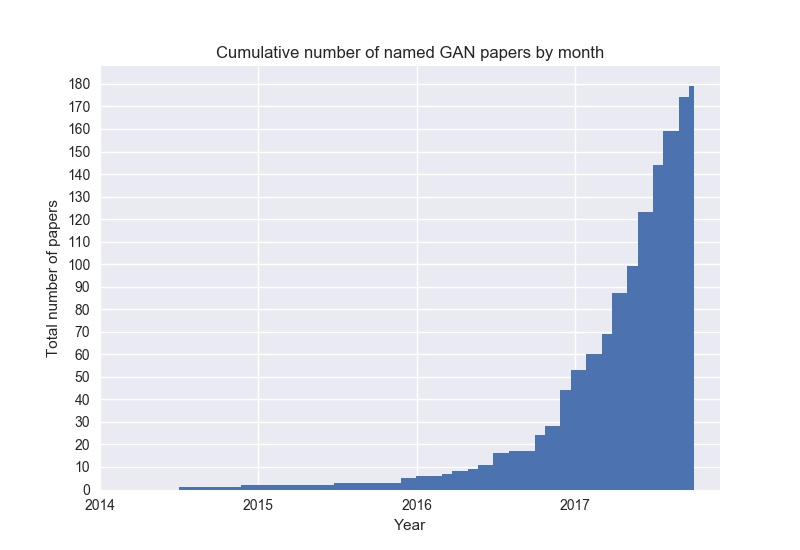
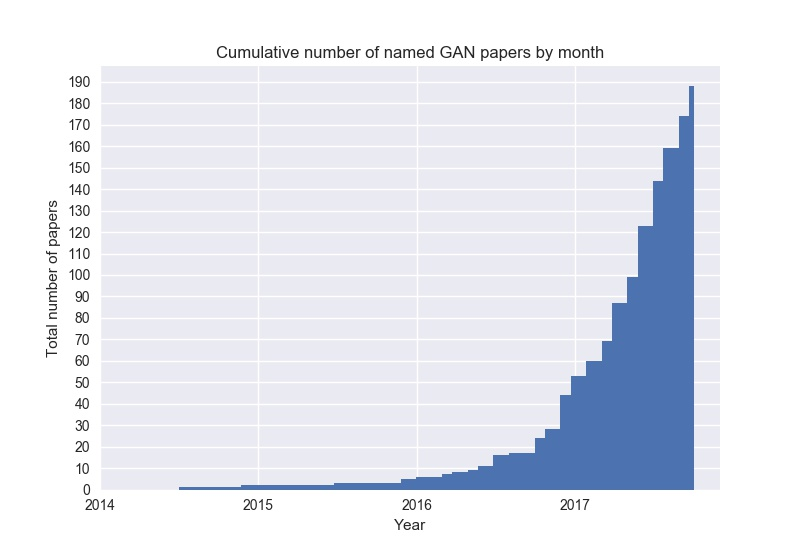
add D2GAN, ExprGAN, GAMN, LeakGAN, MD-GAN, MuseGAN, OptionGAN, Δ-GAN, Spl. GAN
New GANs:
* Dual Discriminator GAN (D2GAN)
* ExprGAN
* Generative Adversarial Mapping Networks (GAMN)
* LeakGAN
* Multi-stage Dynamic GAN (MD-GAN)
* MuseGAN
* OptionGAN
* Splitting GAN
* Triangle GAN (Δ-GAN)

diff --git a/README.md b/README.md
@@ -59,6 +59,7 @@ Check out [Deep Hunt](https://deephunt.in) - my weekly AI newsletter for this re
 * CS-GAN - [Improving Neural Machine Translation with Conditional Sequence Generative Adversarial Nets](https://arxiv.org/abs/1703.04887) 
 * CVAE-GAN - [CVAE-GAN: Fine-Grained Image Generation through Asymmetric Training](https://arxiv.org/abs/1703.10155) 
 * CycleGAN - [Unpaired Image-to-Image Translation using Cycle-Consistent Adversarial Networks](https://arxiv.org/abs/1703.10593) ([github](https://github.com/junyanz/CycleGAN))
+* D2GAN - [Dual Discriminator Generative Adversarial Nets](http://arxiv.org/abs/1709.03831) 
 * DAN - [Distributional Adversarial Networks](https://arxiv.org/abs/1706.09549) 
 * DCGAN - [Unsupervised Representation Learning with Deep Convolutional Generative Adversarial Networks](https://arxiv.org/abs/1511.06434) ([github](https://github.com/Newmu/dcgan_code))
 * DeliGAN - [DeLiGAN : Generative Adversarial Networks for Diverse and Limited Data](https://arxiv.org/abs/1706.02071) ([github](https://github.com/val-iisc/deligan))
@@ -74,11 +75,13 @@ Check out [Deep Hunt](https://deephunt.in) - my weekly AI newsletter for this re
 * EBGAN - [Energy-based Generative Adversarial Network](https://arxiv.org/abs/1609.03126v4) 
 * ED//GAN - [Stabilizing Training of Generative Adversarial Networks through Regularization](https://arxiv.org/abs/1705.09367) 
 * EGAN - [Enhanced Experience Replay Generation for Efficient Reinforcement Learning](https://arxiv.org/abs/1705.08245) 
+* ExprGAN - [ExprGAN: Facial Expression Editing with Controllable Expression Intensity](https://arxiv.org/abs/1709.03842) 
 * f-GAN - [f-GAN: Training Generative Neural Samplers using Variational Divergence Minimization](https://arxiv.org/abs/1606.00709) 
 * FF-GAN - [Towards Large-Pose Face Frontalization in the Wild](https://arxiv.org/abs/1704.06244) 
 * Fila-GAN - [Synthesizing Filamentary Structured Images with GANs](https://arxiv.org/abs/1706.02185) 
 * Fisher GAN - [Fisher GAN](https://arxiv.org/abs/1705.09675) 
 * Flow-GAN - [Flow-GAN: Bridging implicit and prescribed learning in generative models](https://arxiv.org/abs/1705.08868) 
+* GAMN - [Generative Adversarial Mapping Networks](https://arxiv.org/abs/1709.09820) 
 * GAN - [Generative Adversarial Networks](https://arxiv.org/abs/1406.2661) ([github](https://github.com/goodfeli/adversarial))
 * GAN-CLS - [Generative Adversarial Text to Image Synthesis](https://arxiv.org/abs/1605.05396) ([github](https://github.com/reedscot/icml2016))
 * GAN-sep - [GANs for Biological Image Synthesis](https://arxiv.org/abs/1708.04692) ([github](https://github.com/aosokin/biogans))
@@ -105,6 +108,7 @@ Check out [Deep Hunt](https://deephunt.in) - my weekly AI newsletter for this re
 * LAPGAN - [Deep Generative Image Models using a Laplacian Pyramid of Adversarial Networks](https://arxiv.org/abs/1506.05751) ([github](https://github.com/facebook/eyescream))
 * LD-GAN - [Linear Discriminant Generative Adversarial Networks](https://arxiv.org/abs/1707.07831) 
 * LDAN - [Label Denoising Adversarial Network (LDAN) for Inverse Lighting of Face Images](https://arxiv.org/abs/1709.01993) 
+* LeakGAN - [Long Text Generation via Adversarial Training with Leaked Information](https://arxiv.org/abs/1709.08624) 
 * LeGAN - [Likelihood Estimation for Generative Adversarial Networks](https://arxiv.org/abs/1707.07530) 
 * LR-GAN - [LR-GAN: Layered Recursive Generative Adversarial Networks for Image Generation](https://arxiv.org/abs/1703.01560v1) 
 * LS-GAN - [Loss-Sensitive Generative Adversarial Networks on Lipschitz Densities](https://arxiv.org/abs/1701.06264) 
@@ -115,6 +119,7 @@ Check out [Deep Hunt](https://deephunt.in) - my weekly AI newsletter for this re
 * MaliGAN - [Maximum-Likelihood Augmented Discrete Generative Adversarial Networks](https://arxiv.org/abs/1702.07983) 
 * MARTA-GAN - [Deep Unsupervised Representation Learning for Remote Sensing Images](https://arxiv.org/abs/1612.08879) 
 * McGAN - [McGan: Mean and Covariance Feature Matching GAN](https://arxiv.org/abs/1702.08398v1) 
+* MD-GAN - [Learning to Generate Time-Lapse Videos Using Multi-Stage Dynamic Generative Adversarial Networks](https://arxiv.org/abs/1709.07592) 
 * MDGAN - [Mode Regularized Generative Adversarial Networks](https://arxiv.org/abs/1612.02136) 
 * MedGAN - [Generating Multi-label Discrete Electronic Health Records using Generative Adversarial Networks](https://arxiv.org/abs/1703.06490v1) 
 * MGAN - [Precomputed Real-Time Texture Synthesis with Markovian Generative Adversarial Networks](https://arxiv.org/abs/1604.04382) ([github](https://github.com/chuanli11/MGANs))
@@ -124,7 +129,9 @@ Check out [Deep Hunt](https://deephunt.in) - my weekly AI newsletter for this re
 * MMGAN - [MMGAN: Manifold Matching Generative Adversarial Network for Generating Images](https://arxiv.org/abs/1707.08273) 
 * MoCoGAN - [MoCoGAN: Decomposing Motion and Content for Video Generation](https://arxiv.org/abs/1707.04993) ([github](https://github.com/sergeytulyakov/mocogan))
 * MPM-GAN - [Message Passing Multi-Agent GANs](https://arxiv.org/abs/1612.01294) 
+* MuseGAN - [MuseGAN: Symbolic-domain Music Generation and Accompaniment with Multi-track Sequential Generative Adversarial Networks](https://arxiv.org/abs/1709.06298) 
 * MV-BiGAN - [Multi-view Generative Adversarial Networks](https://arxiv.org/abs/1611.02019v1) 
+* OptionGAN - [OptionGAN: Learning Joint Reward-Policy Options using Generative Adversarial Inverse Reinforcement Learning](https://arxiv.org/abs/1709.06683) 
 * ORGAN - [Objective-Reinforced Generative Adversarial Networks (ORGAN) for Sequence Generation Models ](https://arxiv.org/abs/1705.10843) 
 * PAN - [Perceptual Adversarial Networks for Image-to-Image Transformation](https://arxiv.org/abs/1706.09138) 
 * PassGAN - [PassGAN: A Deep Learning Approach for Password Guessing](https://arxiv.org/abs/1709.00440) 
@@ -161,6 +168,7 @@ Check out [Deep Hunt](https://deephunt.in) - my weekly AI newsletter for this re
 * SL-GAN - [Semi-Latent GAN: Learning to generate and modify facial images from attributes](https://arxiv.org/abs/1704.02166) 
 * SN-GAN - [Spectral Normalization for Generative Adversarial Networks](https://drive.google.com/file/d/0B8HZ50DPgR3eSVV6YlF3XzQxSjQ/view) ([github](https://github.com/pfnet-research/chainer-gan-lib))
 * Softmax-GAN - [Softmax GAN](https://arxiv.org/abs/1704.06191) 
+* Splitting GAN - [Class-Splitting Generative Adversarial Networks](https://arxiv.org/abs/1709.07359) 
 * SRGAN - [Photo-Realistic Single Image Super-Resolution Using a Generative Adversarial Network](https://arxiv.org/abs/1609.04802) 
 * SS-GAN - [Semi-supervised Conditional GANs](https://arxiv.org/abs/1708.05789) 
 * ss-InfoGAN - [Guiding InfoGAN with Semi-Supervision](https://arxiv.org/abs/1707.04487) 
@@ -191,4 +199,5 @@ Check out [Deep Hunt](https://deephunt.in) - my weekly AI newsletter for this re
 * WGAN-GP - [Improved Training of Wasserstein GANs](https://arxiv.org/abs/1704.00028) ([github](https://github.com/igul222/improved_wgan_training))
 * WS-GAN - [Weakly Supervised Generative Adversarial Networks for 3D Reconstruction ](https://arxiv.org/abs/1705.10904) 
 * α-GAN - [Variational Approaches for Auto-Encoding Generative Adversarial Networks](https://arxiv.org/abs/1706.04987) ([github](https://github.com/victor-shepardson/alpha-GAN))
+* Δ-GAN - [Triangle Generative Adversarial Networks](https://arxiv.org/abs/1709.06548) 
 
